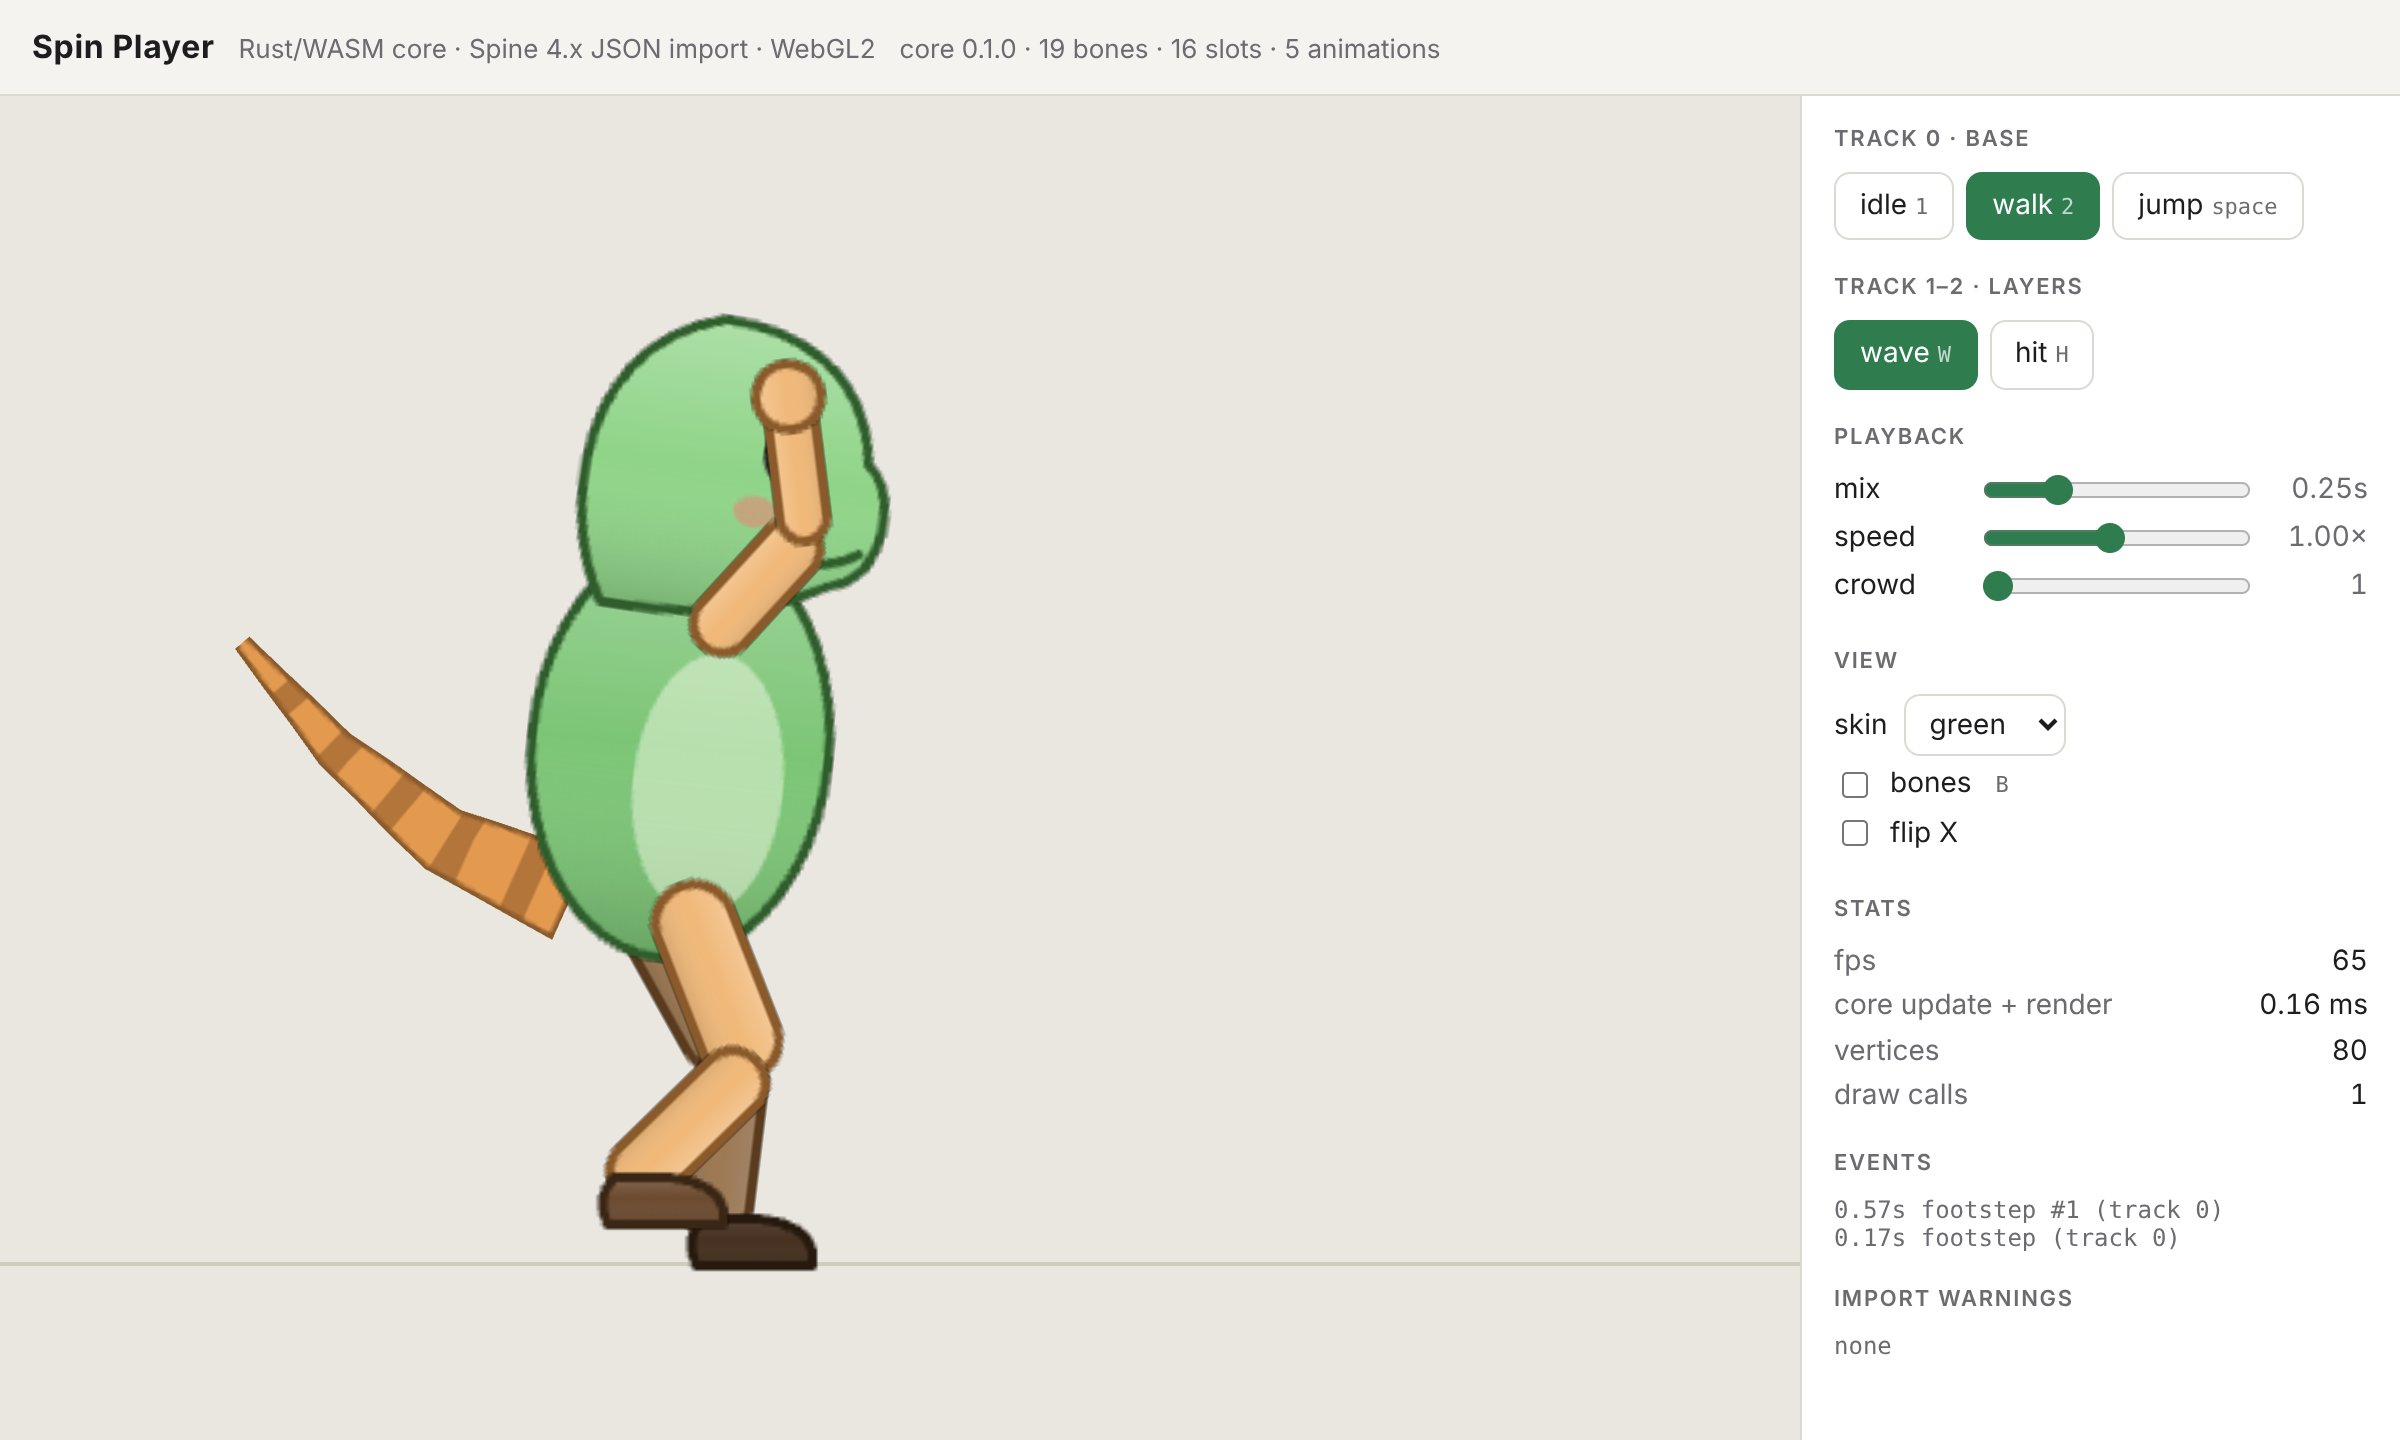
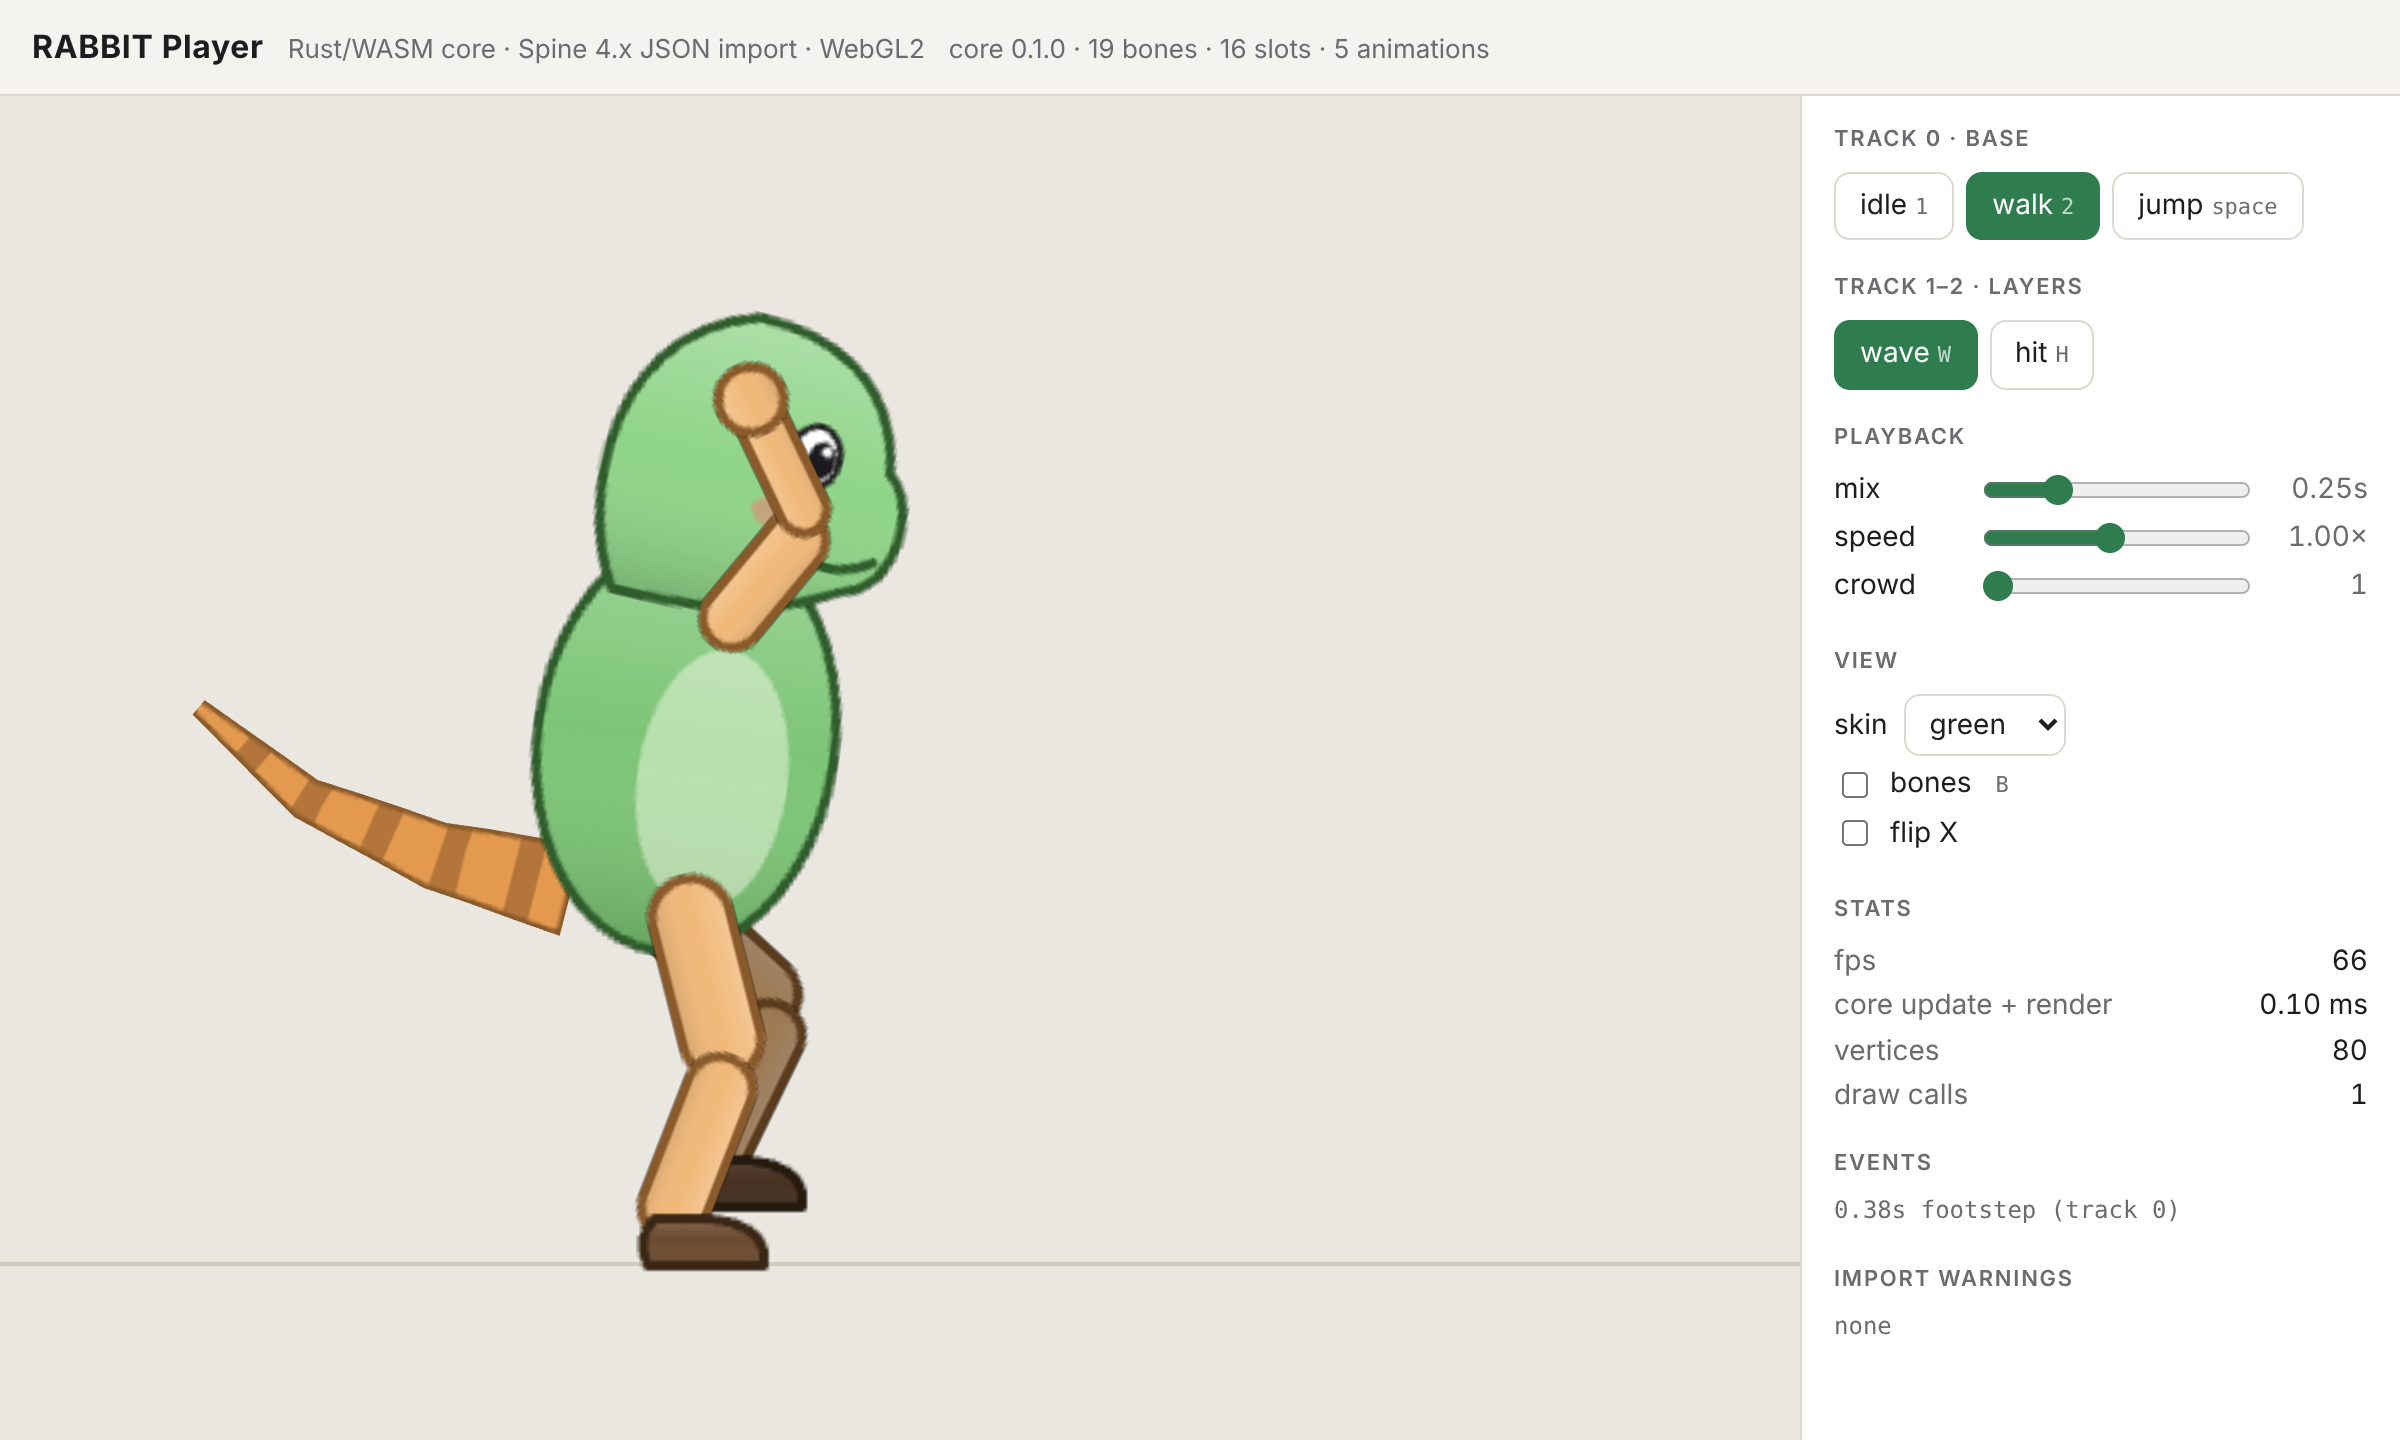
Brand: rename user-facing name to RABBIT
Claude-Session: https://claude.ai/code/session_01Y9bTEbWH19UWAHzpRubVfw

Changed region(s): [[0.0625, 0.2188, 0.4062, 0.9062], [0.0, 0.0, 0.625, 0.0625], [0.75, 0.8125, 0.9062, 0.9375]]

diff --git a/web/demo/index.html b/web/demo/index.html
@@ -3,7 +3,7 @@
   <head>
     <meta charset="utf-8" />
     <meta name="viewport" content="width=device-width, initial-scale=1" />
-    <title>Spin Player</title>
+    <title>RABBIT Player</title>
     <style>
       :root {
         --bg: #f4f3ef;
@@ -81,7 +81,7 @@
   <body>
     <div class="app">
       <header>
-        <h1>Spin Player</h1>
+        <h1>RABBIT Player</h1>
         <span>Rust/WASM core · Spine 4.x JSON import · WebGL2</span>
         <span id="info"></span>
       </header>

diff --git a/docs/PRODUCT.md b/docs/PRODUCT.md
@@ -1,6 +1,6 @@
-# Spin — 产品形态定稿
+# RABBIT — 产品形态定稿
 
-> 品牌名暂定 **Spin**。代码内部标识符沿用代号 `sinew`（crate、C ABI 前缀 `sinew_`、TS 类名），品牌最终确定后一次性替换。
+> 品牌名暂定 **RABBIT**。代码内部标识符沿用代号 `sinew`（crate、C ABI 前缀 `sinew_`、TS 类名），品牌最终确定后一次性替换。
 
 ## 一句话
 
@@ -23,7 +23,7 @@
 
 ## 产品五层（终局形态）
 
-### 1. Spin Core — 单一求值内核（Rust）
+### 1. RABBIT Core — 单一求值内核（Rust）
 
 编辑器预览与游戏运行时是**同一份代码**，所见即所得由架构保证，而不是靠多语言移植对齐。
 
@@ -37,17 +37,17 @@
 - 渲染输出：双色 tint、PMA、混合模式、批次；后续 法线贴图 / 2D 光照 / 像素风旋转模式
 - 编译目标：WASM + 原生（C ABI），一份实现覆盖全部平台
 
-### 2. Spin Studio — 编辑器（Web 优先，Tauri 桌面版）
+### 2. RABBIT Studio — 编辑器（Web 优先，Tauri 桌面版）
 
 - **Rig 模式**：骨骼、Slot、Attachment、网格编辑、自动三角化、自动权重 + 权重笔刷、约束、Skin
 - **Animate 模式**：Dopesheet、曲线编辑器（每通道独立）、Ghosting/洋葱皮、自动 K 帧、音频轨
 - **Logic 模式**：状态机图编辑、Blend Tree、输入参数面板、实时试玩（键盘/手柄驱动预览）
 - **协作**：实时多人编辑（CRDT 文档）、版本历史、分支/合并、逐帧评论、分享链接预览
 - 导入：PSD（沿用 Spine 图层标签约定）、Aseprite、Spine JSON/skel、DragonBones（后期）
-- 导出：Spin 运行时格式、Spine JSON（子集，保证可回退）、PNG 序列 / GIF / 视频、Sprite Sheet
+- 导出：RABBIT 运行时格式、Spine JSON（子集，保证可回退）、PNG 序列 / GIF / 视频、Sprite Sheet
 - CLI：批量导出、CI 集成
 
-### 3. Spin AI — 生产加速（每一步产出普通可编辑数据）
+### 3. RABBIT AI — 生产加速（每一步产出普通可编辑数据）
 
 | 能力 | 输入 → 输出 |
 |---|---|
@@ -60,12 +60,12 @@
 
 原则：AI 不产出视频、不产出黑盒，只产出 Studio 里可继续编辑的骨骼、网格、关键帧。
 
-### 4. Spin Runtimes — 全部 MIT
+### 4. RABBIT Runtimes — 全部 MIT
 
 Web（TS + WASM）、Godot（GDExtension）、Unity（C# + native）、Unreal（C++ 插件）、Defold / Bevy / 原生 C。
 运行时不绑定编辑器授权 —— 这是对 Spine 最直接的结构性差异。
 
-### 5. Spin Hub — 云与市场
+### 5. RABBIT Hub — 云与市场
 
 - 项目云存储、版本、团队权限
 - **资产市场**：Rig 模板、动作包、角色、状态机模板（动作可跨角色复用后，市场才成立）
@@ -75,7 +75,7 @@ Web（TS + WASM）、Godot（GDExtension）、Unity（C# + native）、Unreal（
 
 ## 相对 Spine 的天花板决策
 
-| 维度 | Spine | Spin | 天花板差异 |
+| 维度 | Spine | RABBIT | 天花板差异 |
 |---|---|---|---|
 | 求值内核 | Java 参考实现 + 每语言手写移植 | 单一 Rust 内核 + C ABI / WASM | 新功能一次实现、全平台同步；编辑器 = 运行时 |
 | 动画通道 | 固定 timeline 类型 | 通用属性通道 | 任何新属性天然可动画 |

diff --git a/docs/ARCHITECTURE.md b/docs/ARCHITECTURE.md
@@ -71,5 +71,5 @@ reset pose → setup
 
 - 依据：官方公开的 JSON / binary 格式文档、用户手册中描述的行为语义。
 - 不复制、不移植 Spine Runtimes 源码；不反编译 Spine 编辑器。
-- 数值一致性用对照测试衡量：用户本机用自有 Spine 授权与官方 runtime 渲染同一资源，与 Spin 输出做像素比对。
+- 数值一致性用对照测试衡量：用户本机用自有 Spine 授权与官方 runtime 渲染同一资源，与 RABBIT 输出做像素比对。
 - 公式在边界情况（非均匀缩放下的 IK、非 normal 继承模式）为独立推导，以对照测试结果迭代。

diff --git a/README.md b/README.md
@@ -1,4 +1,4 @@
-# Spin
+# RABBIT
 
 面向独立团队的 2D 骨骼动画平台。产品形态见 [docs/PRODUCT.md](docs/PRODUCT.md)，架构见 [docs/ARCHITECTURE.md](docs/ARCHITECTURE.md)，路线图见 [docs/ROADMAP.md](docs/ROADMAP.md)。
 
